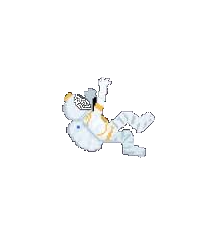
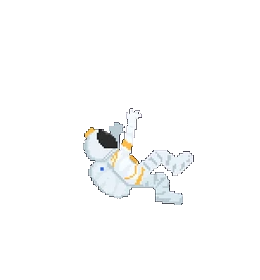
space

Changed region(s): [[0.2778, 0.3305, 0.75, 0.7511]]

diff --git a/static/css/home.css b/static/css/home.css
@@ -178,25 +178,18 @@ body {
 
 .slideshowHome {
   position: relative;
-  width: 55px;   
-  height: 55px;  
+  width: 65px;   
+  height: 65px;  
   overflow: hidden;
   margin: 0 auto;
   top: -249px;
   right: -120px;
 }
 
-.mySlidesHome.tomato img {
-  width: 79%;   
-  height: auto;
-  aspect-ratio: 1 / 1;
-  height: auto;
-  object-fit: cover;
-  border-radius: 50%;         /* circle */
 
-  border: 3px solid gold;     /* faint gold border */
- 
-}
+
+
+
 
 .mySlidesHome {
   position: absolute;
@@ -204,20 +197,45 @@ body {
   left: -100%;
   opacity: 0;
   transition: left 0.7s ease-in-out; /* slide animation */
+
+}
+
+.mySlidesHome.tomato img {
+  position: absolute;
+  left: 50%;
+  top: 50%;
+  transform: translate(-50%, -50%);
+
+  width: 70%;              
+  aspect-ratio: 1 / 1;
+  border-radius: 50%;
+
+  background-size: cover;   
+  background-position: center;
+  background-repeat: no-repeat;
+       
+  pointer-events: none;     
+  z-index: 2;
 }
 
 .mySlidesHome.orange img {
-  width: 65%;
-  height: auto;
-  padding: 6px;  
-  height: auto;
+  position: absolute;
+  left: 50%;
+  top: 50%;
+  transform: translate(-50%, -50%);
+
+  width: 70%;              
   aspect-ratio: 1 / 1;
-  height: auto;
-  object-fit: cover;
-  border-radius: 50%;         /* circle */
+  border-radius: 50%;
 
-  border: 3px solid gold;     /* faint gold border */
+  
+  background-size: cover;   
+  background-position: center;
+  background-repeat: no-repeat;
 
+       
+  pointer-events: none;     
+  z-index: 2;
 }
 
 /* Current slide: visible */
@@ -264,6 +282,10 @@ body {
   transform: rotateY(180deg);
 }
 
+.lefttree-img img {
+  left: -200px;
+}
+
 
 .crabchef {
   margin-top: -350px;
@@ -275,7 +297,7 @@ body {
   width: 37%;
   position: relative;
   top: -80px;
- 
+
 }
 
 
@@ -399,11 +421,11 @@ body {
 
 .fruitpics1 .fruitontable,
 .fruitpics2 .fruitontable {
-  position: absolute;                  /* layer above table */
+  position: absolute;                  
   left: 50%;
   transform: translateX(-50%);
-  bottom: 20%;                         /* adjust “how high” it sits on table */
-  width: 70%;                          /* fruit scale relative to card */
+  bottom: 20%;                         
+  width: 70%;                          
   height: auto;
   z-index: 2;
   filter: drop-shadow(0 8px 12px rgba(0,0,0,.25)); /* subtle lift */
@@ -424,13 +446,13 @@ body {
 .fruitpics1 .woodtable,
 .fruitpics2 .woodtable {
   position: absolute;
-  bottom: 0;                           /* sit on the “floor” of the card */
+  bottom: 0;                          
   left: 50%;
   transform: translateX(-50%);
-  width: 100%;                         /* match the card’s width */
+  width: 100%;                        
   height: auto;
   z-index: 1;
-  pointer-events: none;                /* never block clicks */
+  pointer-events: none;                
 }
 
 /* ----------Fruit Pics 2 Box Editing--------------------------------------------------------------------- */

diff --git a/static/css/landingbackground.css b/static/css/landingbackground.css
@@ -1,7 +1,8 @@
-.homebutt {
-    font-size: 36px;
+.homebutt img {
     position: relative;
-
+    width: 5%;
+    right: -956px;
+    bottom: -100px;
 }
 
 .landingbackground {
@@ -14,6 +15,12 @@ body {
     background-size: cover;
     background-repeat: no-repeat;
     color: silver;
+    
+}
+
+.wholething {
+    z-index: 1;
+    
 }
 
 .top-rect-country {
@@ -36,3 +43,68 @@ body {
     border-color: blue;
 }
 
+.scene {
+  position: relative;
+  width: min(60vw, 780px);       /* scale the whole composition */
+ 
+}
+
+/* big green alien */
+.alien {
+  display: block;
+  width: 80%;
+  height: auto;
+  image-rendering: pixelated;    /* keep that crisp retro look */
+  pointer-events: none;          /* never grabs clicks */
+  left: -200px;
+}
+
+/* place the portal on the alien's belly */
+.portal,
+.portal-hit {
+  position: absolute;
+  left: 328.9px;
+  top: 536px;
+  transform: translate(-50%, -50%);
+  width: 8.8%;                    /* portal size */
+  aspect-ratio: 1 / 1;
+  border-radius: 40%;
+  transform: scaleY(1.3);
+}
+
+/* the visual swirl + glow (not clickable) */
+.portal {
+  pointer-events: none;
+  background-image: url('https://media.giphy.com/media/v1.Y2lkPWVjZjA1ZTQ3aHdnaTcybmh2ZGN3M2ljNHkyNHFnNzIxOWl3ajdlbThocG52ZjNvdiZlcD12MV9naWZzX3NlYXJjaCZjdD1n/mX1bWOEGPIAY1yhmKI/giphy.gif');
+  --zoom: 7.0;
+  background-size: calc(var(--zoom) * 100%);
+  background-position: center;
+  box-shadow:
+    0 0 18px 6px rgba(0, 200, 255, 0.45),
+    inset 0 0 22px rgba(255, 255, 255, 0.35);
+  z-index: 2;
+   
+}
+
+/* the ONLY clickable area — clipped to a true circle */
+.portal-hit {
+  z-index: 3;                    /* above alien/portal, below astro */
+  display: block;
+  background: transparent;
+  /* ensure the hit-testing is circular on all modern browsers */
+  clip-path: circle(50% at 50% 50%);
+  -webkit-clip-path: circle(50% at 50% 50%);
+}
+
+/* astronaut outside the portal */
+.astro {
+  position: absolute;
+  left: 52%;
+  top: 75%;
+  transform: translate(-50%, -50%) rotateY(180deg);
+  width: 19%;
+  height: auto;
+  pointer-events: none;          /* clicks pass through to the portal-hit */
+  filter: drop-shadow(0 6px 10px rgba(0,0,0,.35));
+  z-index: 4;
+}

diff --git a/templates/country.html b/templates/country.html
@@ -1,9 +1,28 @@
 {% extends "landingbackground.html" %}
 {% block title %}{{ country.name }} - Fruit Facts{% endblock %}
 {% block body %}
-<div class="homebutt">
-      <a href="{{ url_for('backhome_page') }}" class="homebutton">HOME PAGE</a>
-</div>  
+ 
+
+<div class="gohome">
+  <div class="homebutt">
+      <a href="{{ url_for('backhome_page') }}" class="homebutton"><img class="ufo" src="../static/images/countrytemp/ufo.png"></a>
+  </div>
+</div>
+
+<div class="scene">
+  <img class="alien" src="../static/images/countrytemp/alien.png" alt="alien">
+
+  <!-- visual portal (not clickable) -->
+  <div class="portal"></div>
+
+  <!-- the ONLY clickable area (perfect circle) -->
+  <a class="portal-hit" href="{{ url_for('space_page') }}" aria-label="Enter portal"></a>
+
+  <!-- astronaut floats outside the portal -->
+  <img class="astro" src="../static/images/astro.png" alt="astro">
+</div>
+
+
 <div class="wholething">
   <!--<img src="../static/images/beachbar.jpg" class="landingbackground"> -->
 
@@ -49,8 +68,7 @@
       <p class="worldFruit">{{ country.summary }}</p>
     </div>
   </div>
-  <div>
-    <img class="alien" src="../static/images/countrytemp/alien.png">
-  </div>
+
+  
 </div>
 {% endblock %}

diff --git a/templates/index.html b/templates/index.html
@@ -48,7 +48,7 @@
                         </div>
 
                             <div class="mySlidesHome orange">
-                                <img src="../static/images/fruitoftheday/orange1.png" alt="orange">
+                                <img class ="orangeslide" src="../static/images/fruitoftheday/orange1.png" alt="orange">
                             </div>
                     </div> 
 
@@ -86,7 +86,7 @@
                     <a href="{{ url_for('coconuts_page') }}" class="fruit1-button-class">
                         <figure>
                             <img class="woodtable" src="../static/images/homepage/woodtable.png" alt="table">
-                            <img class='fruitontable coconuts' src="../static/images/coconut1.png" alt="Picture 1">
+                            <img class='fruitontable coconuts' src="../static/images/coconut.png" alt="Picture 1">
                             <!--<figcaption>Coconuts</figcaption>-->
                         </figure>
                     </a>

diff --git a/templates/landingbackground.html b/templates/landingbackground.html
@@ -11,7 +11,7 @@
   <body>
 
     {% block body %}{% endblock %}
-    <a href="{{ url_for('space_page') }}" class="reroll">🔀 Show Another Random Country</a>
+
   </body>
 
 </html>
